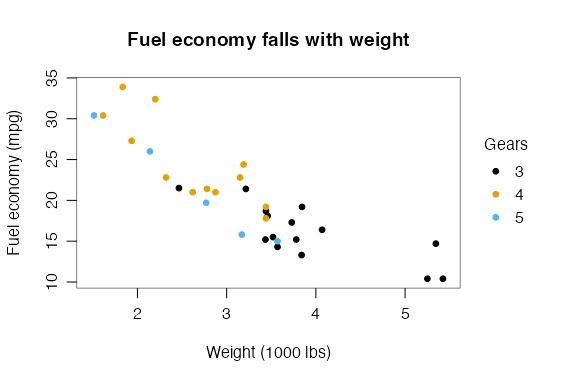
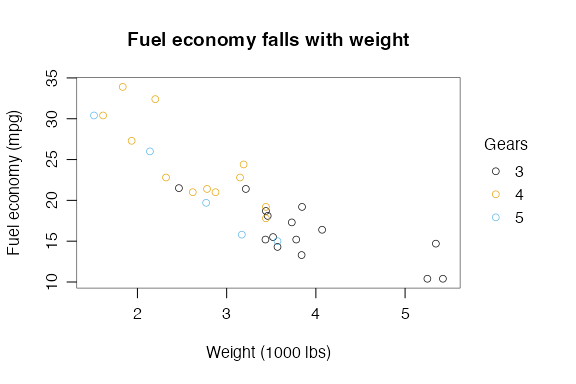
feat: set geom defaults and palettes in theme_par() with ggplot2 4.0
With ggplot2 >= 4.0.0, theme_par() now fills `theme(geom)` from par()
(col, bg, lwd, lty, pch, cex, ps), sets `linejoin` from ljoin, uses the
current palette() (recycled) for discrete scales, and the image()
default hcl.colors(12, "YlOrRd", rev = TRUE) for continuous scales.

diff --git a/NEWS.md b/NEWS.md
@@ -1,5 +1,12 @@
 # ggthemes (development version)
 
+- With ggplot2 4.0.0 or later, `theme_par()` also sets the defaults for
+  geoms from `par()`: colour from `col`, background from `bg`, line width and
+  type from `lwd` and `lty`, point shape from `pch`, and point and text size
+  from `cex` and `ps`. Lines join with `par("ljoin")`. Discrete scales use the
+  current `palette()`, recycled as base graphics does, and continuous scales
+  use `hcl.colors(12, "YlOrRd", rev = TRUE)`, the default colours of `image()`.
+
 - `theme_par()` follows base graphics more closely:
 
   - `par("las")` rotates the tick labels, as in base graphics, instead of the
